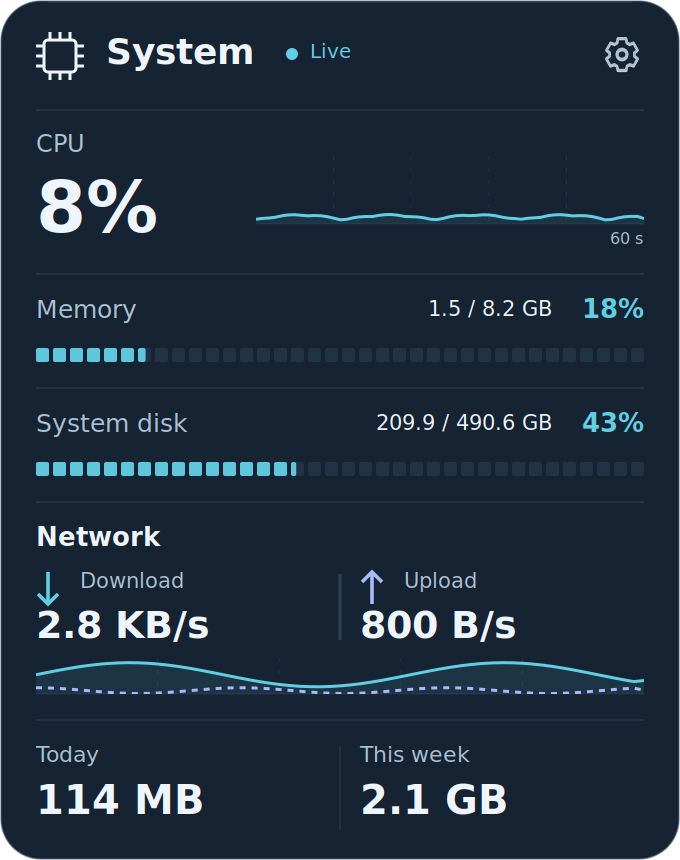
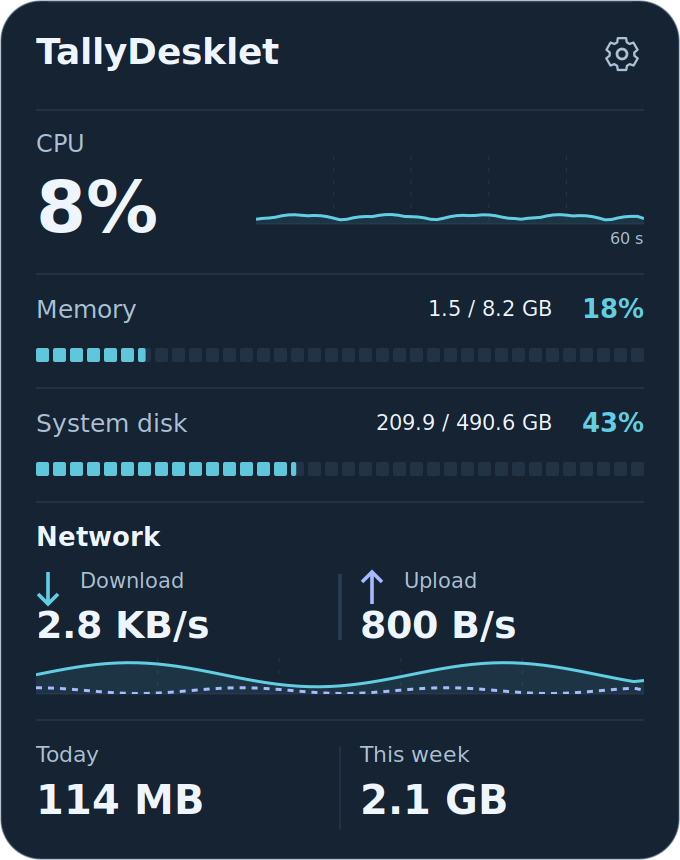
TallyDesklet 0.3.1: simplify widget header to the app name

Changed region(s): [[0.0618, 0.0302, 0.4324, 0.0907], [0.8956, 0.0302, 0.9265, 0.0907], [0.4632, 0.0605, 0.4941, 0.0907]]

diff --git a/src/tallydesklet/ui/render.py b/src/tallydesklet/ui/render.py
@@ -27,19 +27,6 @@ def text(cr, cfg, value, x, y, size=12, tint="#FFFFFF", bold=False, right=False,
     return layout.get_pixel_size()
 
 
-def chip(cr, x, y, tint):
-    color(cr, tint)
-    cr.set_line_width(1.5)
-    rounded(cr, x+4, y+4, 16, 16, 2)
-    cr.stroke()
-    for offset in (7, 12, 17):
-        for a, b in (((x+offset, y), (x+offset, y+4)), ((x+offset, y+20), (x+offset, y+24)),
-                     ((x, y+offset), (x+4, y+offset)), ((x+20, y+offset), (x+24, y+offset))):
-            cr.move_to(*a)
-            cr.line_to(*b)
-    cr.stroke()
-
-
 def grid(cr, x, y, w, h, tint):
     color(cr, tint, .24)
     cr.set_line_width(.6)
@@ -92,15 +79,9 @@ def draw_card(cr, cfg, sample=None, histories=None, maximum=1000, composited=Fal
         return text(cr, cfg, numerals(cfg,tr(cfg, value)), x, y, size, kwargs.pop("tint", p["text"]), **kwargs)
     def value(v, x, y, size=12, **kwargs):
         return text(cr, cfg, numerals(cfg, v), x, y, size, kwargs.pop("tint", p["text"]), numeric=True, **kwargs)
-    chip(cr, end-24 if is_rtl else pad, 16, p["text"])
-    label("System", end-35 if is_rtl else pad+35, 15, 18, right=is_rtl, bold=True)
-    live = sample is not None and sample.cpu is not None
-    color(cr, p["accent"] if live else p["muted"], 1 if live else .5)
-    dot = 164 if is_rtl else 146
-    cr.arc(dot, 27, 3, 0, 6.2832)
-    cr.fill()
-    label("Live" if live else "Warming up", dot-9 if is_rtl else dot+9, 19, 10,
-          right=is_rtl, width=95, tint=p["accent"] if live else p["muted"])
+    # Keep the brand literal and reserve the opposite edge for the native gear.
+    value("TallyDesklet", end if is_rtl else pad, 15, 18,
+          right=is_rtl, bold=True, width=width-2*pad-38)
     binary = a["units"] == "binary"
     now = sample.time if sample else 0
     cpu, down, up = histories or ((), (), ())

diff --git a/src/tallydesklet/ui/widget.py b/src/tallydesklet/ui/widget.py
@@ -53,7 +53,7 @@ class MeterWindow(Gtk.ApplicationWindow):
         self.canvas.connect("button-release-event", self.drag_end)
         self.canvas.set_has_tooltip(True)
         self.canvas.connect("query-tooltip", self.tooltip)
-        self.canvas.get_accessible().set_name("System metrics")
+        self.canvas.get_accessible().set_name("TallyDesklet")
         self.fixed.put(self.canvas, 0, 0)
         self.gear = Gtk.Button()
         self.gear.set_image(Gtk.Image.new_from_icon_name("emblem-system-symbolic", Gtk.IconSize.MENU))
@@ -99,7 +99,7 @@ class MeterWindow(Gtk.ApplicationWindow):
         fg.parse(palette(self.config)["muted"])
         self.gear.override_color(Gtk.StateFlags.NORMAL, fg)
         self.gear.set_tooltip_text(tr(self.config, "Settings"))
-        self.canvas.get_accessible().set_name(tr(self.config, "System"))
+        self.canvas.get_accessible().set_name("TallyDesklet")
         self.gear.get_accessible().set_name(tr(self.config, "Settings"))
         self.reposition()
         self.queue_draw()

diff --git a/src/tallydesklet/__init__.py b/src/tallydesklet/__init__.py
@@ -1,3 +1,3 @@
 """TallyDesklet: a small, local desktop system monitor."""
 
-__version__ = "0.3.0"
+__version__ = "0.3.1"

diff --git a/docs/RELEASE_NOTES.md b/docs/RELEASE_NOTES.md
@@ -1,50 +1,23 @@
-# TallyDesklet 0.3.0 — Themes and bilingual redesign
+# TallyDesklet 0.3.1 — A simpler widget header
 
-A redesigned native desktop card and settings for Linux Mint 22.3 Xfce/X11.
-
-- Six complete themes: Ember, Mint, Ocean, Lilac, Paper and Silver.
-- Readable CPU history, segmented RAM/filesystem bars, distinct network traces,
-  and Today/This week totals; normal 340 × 430 or compact 320 × 342 logical pixels.
-- Persian RTL and English LTR, bundled Vazirmatn, independently selectable numerals.
-- Scrolled settings with mirrored sidebar, responsive icon navigation, bounded
-  About/credits, GitHub links and native controls styled to match the card.
-- Reversible appearance preview; Apply saves and Close/Discard restores saved
-  preferences. Sampling, startup and notifications change only after Apply.
-- Per-section visibility, custom accent/reset, restrained fades and reduced motion.
-- Saturday, Sunday or Monday week starts without resetting retained daily totals.
-- Optional sustained RAM/disk notifications, off by default: 60 seconds above
-  threshold, ten-minute cooldown and five-point rearm hysteresis.
-- Upgrade retains old preferences, position, usage and explicit startup choice.
-  Legacy dark/light and custom colors remain supported. Fresh installs use Ember.
+- Replace the CPU logo, System heading and Live dot/text with the widget name: **TallyDesklet**.
+- Keep the settings gear at the opposite edge, with English left-aligned and Persian right-aligned branding. The name keeps its Latin spelling in both languages.
+- Existing metrics, graphs, themes, compact mode, settings, usage history and opt-in startup are preserved.
 
 ## Install / upgrade
 
-Download `tallydesklet_0.3.0-1_all.deb` and `SHA256SUMS`, then run in that folder:
+Download `tallydesklet_0.3.1-1_all.deb` and `SHA256SUMS`, then run in that folder:
 
 ```sh
 sha256sum -c SHA256SUMS
-install -m 644 ./tallydesklet_0.3.0-1_all.deb /tmp/tallydesklet_0.3.0-1_all.deb
 tallydesklet --quit
-sudo apt install /tmp/tallydesklet_0.3.0-1_all.deb
+install -m 644 ./tallydesklet_0.3.1-1_all.deb /tmp/tallydesklet_0.3.1-1_all.deb
+sudo apt install /tmp/tallydesklet_0.3.1-1_all.deb
 tallydesklet
 ```
 
-The readable `/tmp` copy avoids APT's `_apt` notice when your home/download folder
-is private. Do not change home-directory permissions or run the app as root.
+Restart the old running process to load the updated header. The readable /tmp copy avoids APT's `_apt` home-folder access notice.
 
-Open the gear → Display & language to choose Persian. To use the reference's
-orange appearance after upgrading, select **Ember / اخگر** in Appearance.
-Notifications and login startup remain opt-in. Notifications require the app
-running and an available desktop notification service.
+## Verification
 
-## Verification scope
-
-58 logic/data tests and 14 native GTK/notification tests cover migration, all
-palettes, contrast, preview/apply/discard, failed saves, week accounting, sustained
-alerts, native notification protocol, RTL/LTR, large fonts and 200% scaling.
-The Ubuntu 24.04 CI pipeline also exercises Xfwm desktop/CLI integration and
-rootless/conventional Debian builds. See `docs/TESTING.md` for the verification
-record and remaining real Mint/login/hardware checks. Documentation images are
-real GTK captures with fixed synthetic example data, never live user readings.
-
-Original application: MIT, saeedt20. Bundled unmodified Vazirmatn: SIL OFL 1.1.
+All 72 existing logic/package and native GTK checks passed. The 14 native checks also passed at 200% display scale. The documentation previews use fixed synthetic values. Virtual X11 checks do not certify Mint installation, hardware hotplug or real login startup; see docs/TESTING.md.

diff --git a/README.md b/README.md
@@ -31,6 +31,10 @@ app with equivalent system dependencies, but positioning and stacking depend on
 the window manager. The interface supports **English (LTR)** and **Persian (RTL)** with bundled
 Vazirmatn fonts. Choose the language independently of the numerals in Settings.
 
+## New in 0.3.1
+
+The widget header now shows **TallyDesklet** and the settings gear. The CPU logo, “System” heading and “Live” dot/text are removed in both languages. English aligns the brand on the left; Persian aligns it on the right while keeping its Latin spelling. Metrics, graphs, themes, dimensions and preferences retain their existing behavior.
+
 ## See it in action
 
 The default card measures **340 × 430 logical pixels**.
@@ -81,15 +85,15 @@ captures remain private local artifacts.
 
 ## Install
 
-Download **`tallydesklet_0.3.0-1_all.deb`** and **`SHA256SUMS`** from the
+Download **`tallydesklet_0.3.1-1_all.deb`** and **`SHA256SUMS`** from the
 [latest release](https://github.com/saeedt20/TallyDesklet/releases/latest).
 Run these commands in the download folder:
 
 ```bash
 sha256sum -c SHA256SUMS
-install -m 644 ./tallydesklet_0.3.0-1_all.deb /tmp/tallydesklet_0.3.0-1_all.deb
+install -m 644 ./tallydesklet_0.3.1-1_all.deb /tmp/tallydesklet_0.3.1-1_all.deb
 tallydesklet --quit
-sudo apt install /tmp/tallydesklet_0.3.0-1_all.deb
+sudo apt install /tmp/tallydesklet_0.3.1-1_all.deb
 tallydesklet
 ```
 
@@ -229,7 +233,7 @@ sudo apt install dpkg
 ```
 
 The rootless build runs unit tests and creates
-**`dist/tallydesklet_0.3.0-1_all.deb`** and **`dist/SHA256SUMS`**. Do not run the
+**`dist/tallydesklet_0.3.1-1_all.deb`** and **`dist/SHA256SUMS`**. Do not run the
 build with sudo. TallyDesklet is interpreted Python, so no native compilation is
 needed. GTK and psutil's native libraries remain system dependencies; nothing is
 downloaded by the app at runtime.

diff --git a/docs/TESTING.md b/docs/TESTING.md
@@ -1,5 +1,12 @@
 # Testing TallyDesklet
 
+## 0.3.1 header update — 12 October 2026
+
+- All 72 existing checks passed in an isolated private D-Bus/virtual X11/Xfwm4 session: 58 logic/package checks and 14 native GTK/notification checks.
+- The 14 native checks also passed at 200% display scale. Regenerated and visually reviewed English, Persian and compact widget captures show the literal TallyDesklet heading, no chip logo/live indicator, and the existing gear at the opposite edge. All six theme previews use the shared renderer and fixed synthetic values.
+- Rootless Debian packaging passed with matching application/changelog versions and checksums. Source and installed metrics/configuration code otherwise retain their previous behavior.
+- Native Mint installation, real login/startup, suspend/resume and physical monitor hotplug were not repeated for this header-only update. Hosted CI retains its normal/composited/HiDPI GUI smoke and conventional Debian checks.
+
 ## Publication checks — version 0.2.1
 
 All 44 deterministic unit tests passed during publication preparation. The

diff --git a/docs/BUILD_SPEC.md b/docs/BUILD_SPEC.md
@@ -440,3 +440,7 @@ Continue TallyDesklet; retain the existing sampler, usage migration, CLI and des
   Persian/English geometry, 100%/200% scale, large fonts, bounded windows, timers,
   week rollover and opt-in notifications on an isolated private D-Bus/X display.
   Keep real Mint/hardware/login checks distinct from virtual checks.
+
+## 17. Version 0.3.1 — owner-requested header simplification
+
+Replace the widget's CPU/chip logo, System label and Live/warm-up dot/text with one literal **TallyDesklet** name. Keep the settings gear at the opposite edge. Brand text is LTR internally, left-aligned in English and right-aligned in the Persian layout. Keep existing header height, drag target, metrics, graphs, compact mode and themes.

diff --git a/docs/RELEASING.md b/docs/RELEASING.md
@@ -17,9 +17,9 @@ preview links, and verification limits before tagging.
 ./scripts/gui-check.sh
 ./scripts/gui-check.sh --composited
 ./scripts/gui-check.sh --hidpi
-dpkg-deb --info dist/tallydesklet_0.3.0-1_all.deb
-dpkg-deb --contents dist/tallydesklet_0.3.0-1_all.deb
-lintian dist/tallydesklet_0.3.0-1_all.deb
+dpkg-deb --info dist/tallydesklet_0.3.1-1_all.deb
+dpkg-deb --contents dist/tallydesklet_0.3.1-1_all.deb
+lintian dist/tallydesklet_0.3.1-1_all.deb
 (cd dist && sha256sum -c SHA256SUMS)
 ```
 

diff --git a/CHANGELOG.md b/CHANGELOG.md
@@ -1,5 +1,12 @@
 # Changelog
 
+## 0.3.1 — 12 October 2026
+
+- Simplify the widget header to TallyDesklet and the settings gear.
+- Remove the CPU logo, System title and Live dot/text from both languages.
+- Keep the Latin brand left-aligned in English and right-aligned in Persian.
+
+
 ## 0.3.0 — 2026-10-12
 
 - Redesign the widget and native settings with six coordinated themes.
